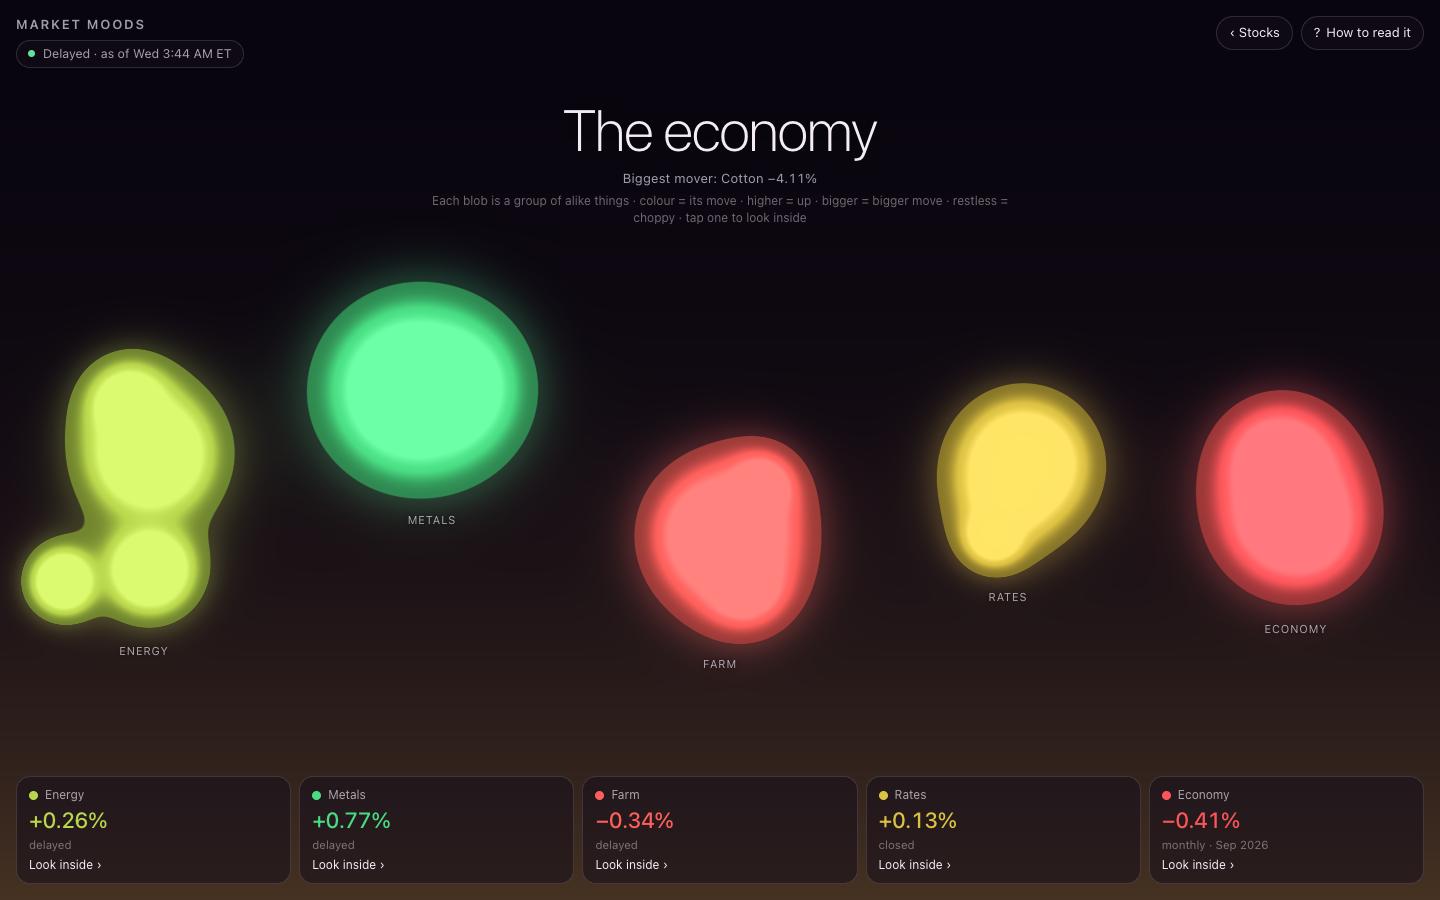
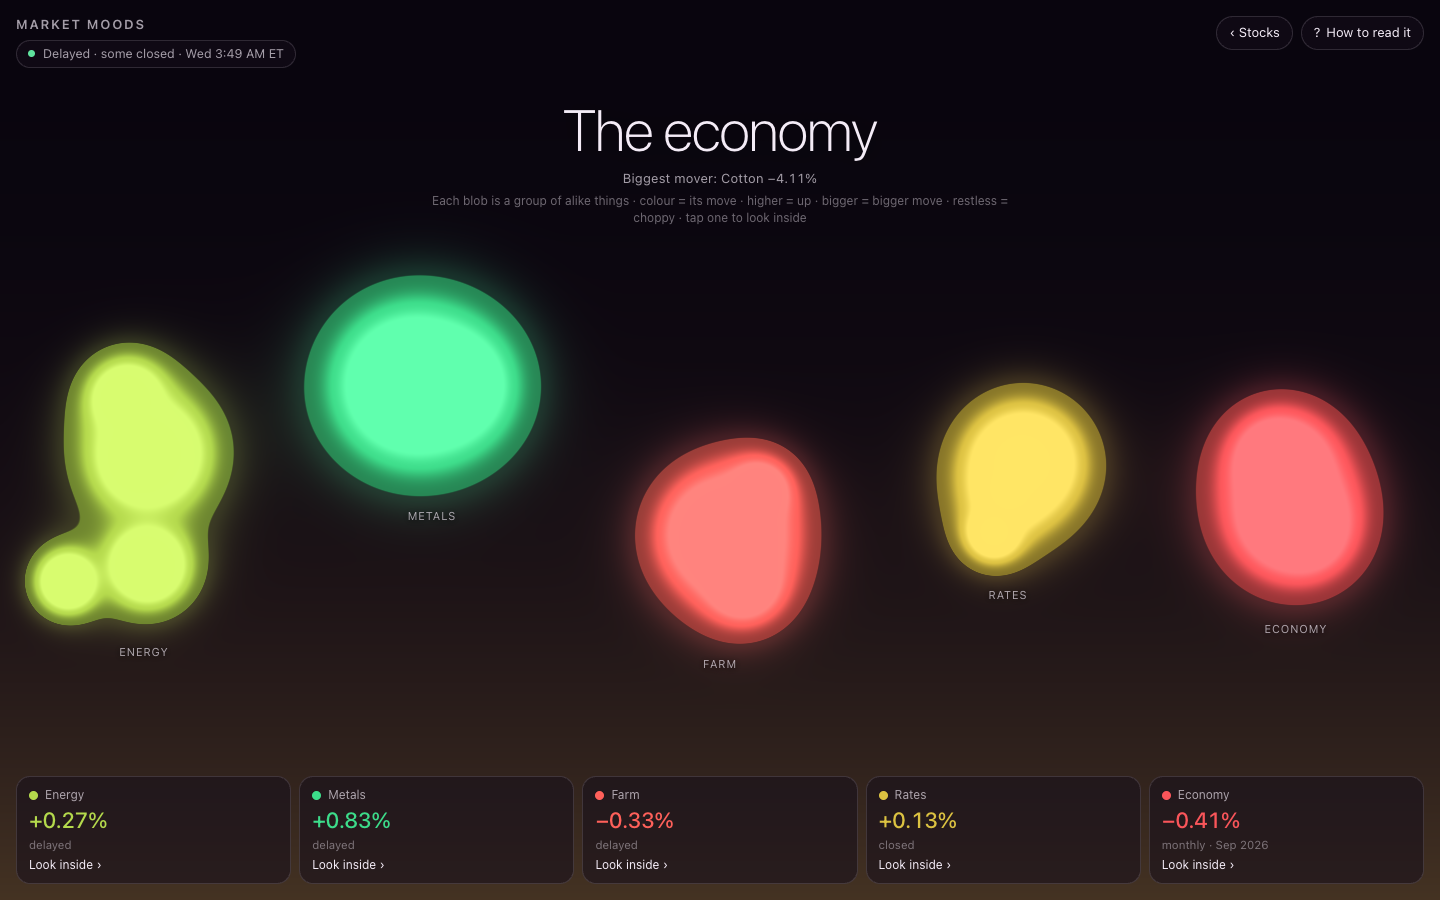
Critic fixes: label small blobs, wrap legend names, no -0 bp, name the member pulling a group, honest pill, phone header
Unemployment's blob was blank (r<24), legend names were cut off, the Economy card read 'Econom',
the Dow phone header pushed the pill onto the title (Economy button hidden in the cell view on
phones), '-0 bp' now reads '0 bp' (check.js), a red group over mostly green members names the
member pulling it (economy-check recounts it; mutant RED), the pill says 'some closed'.

diff --git a/economy.html b/economy.html
@@ -36,7 +36,7 @@
   .tools { display: flex; gap: 8px; }
   .btn { appearance: none; border: 1px solid var(--line); background: var(--glass); color: var(--ink); text-decoration: none;
     height: 34px; min-width: 34px; padding: 0 12px; border-radius: 999px; font: inherit; font-size: 13px; cursor: pointer;
-    backdrop-filter: blur(10px); -webkit-backdrop-filter: blur(10px); display: inline-flex; align-items: center; justify-content: center; gap: 6px; }
+    backdrop-filter: blur(10px); -webkit-backdrop-filter: blur(10px); display: inline-flex; align-items: center; justify-content: center; gap: 6px; white-space: nowrap; }
   .btn:hover { border-color: rgba(244, 236, 247, .32); }
   .btn:focus-visible { outline: 2px solid var(--ink); outline-offset: 2px; }
   .btn[hidden] { display: none; }
@@ -71,7 +71,7 @@
   body.incell .members { display: grid; }
   .members li { display: grid; grid-template-columns: 9px 1fr auto; gap: 0 7px; align-items: baseline; font-size: 12.5px; color: var(--ink-2); min-width: 0; }
   .members .chip { width: 9px; height: 9px; border-radius: 50%; align-self: center; }
-  .members .nm { white-space: nowrap; overflow: hidden; text-overflow: ellipsis; }
+  .members .nm { line-height: 1.2; overflow-wrap: anywhere; }
   .members .mv { font-weight: 600; }
   .members .as { grid-column: 2 / 4; font-size: 11px; color: var(--ink-3); margin-top: -1px; }
   dialog { border: 1px solid var(--line); border-radius: 18px; background: rgba(18, 11, 24, .94); color: var(--ink);
@@ -85,9 +85,9 @@
   dialog .close { margin-top: 16px; width: 100%; }
   @media (max-width: 640px) {
     .readouts { gap: 5px; }
-    .card { padding: 8px 6px 9px; border-radius: 12px; }
+    .card { padding: 8px 5px 9px; border-radius: 12px; }
     .card .pct { font-size: 14px; }
-    .card .name { font-size: 10.5px; gap: 4px; }
+    .card .name { font-size: 10px; gap: 3px; }
     .card .chip { width: 7px; height: 7px; }
     .card .lvl { font-size: 9.5px; }
     .card .look { display: none; }
@@ -429,6 +429,11 @@
       drawn.push([N.dx, N.dy, N.r]);
     }
     ctx.fillStyle = "rgba(20,11,24,.9)"; ctx.textAlign = "center"; ctx.textBaseline = "middle";
+    for (const N of list) if (N.r >= 12 && N.r < 24) {   // too small for name + move: the name alone, so no blob is left blank
+      ctx.font = `600 9px ui-sans-serif, -apple-system, sans-serif`;
+      let t = N.m.short || N.m.name; while (t.length > 3 && ctx.measureText(t).width > N.r * 1.9) t = t.slice(0, -1);
+      ctx.fillText(t, N.dx, N.dy);
+    }
     for (const N of list) if (N.r >= 24) {
       const nm = N.m.short || N.m.name;
       const fs = Math.max(9, Math.min(14, Math.round(N.r * 0.34))), asof = Mood.econAsOf(N.m, now);
@@ -448,7 +453,12 @@
     const g = grp(); if (!inCell || !g) return;
     const now = Date.now();
     $("cellWord").textContent = "Inside " + g.name.toLowerCase();
-    $("cellSub").textContent = `${g.name} ${fmtPct(g.pct)} · ${g.members.filter(m => m.mv.pct > 0).length} of ${g.members.length} rising · ${groupWhenLabel(g, now)}`;
+    const up = g.members.filter(m => m.mv.pct > 0).length, n = g.members.length;
+    // when the group's sign disagrees with most of its members, one big mover is doing it: name it, so a red ring
+    // over mostly-green blobs reads as "Cotton pulled it down", not as a broken page
+    const against = (g.pct < 0 && up > n / 2) || (g.pct > 0 && up < n / 2);
+    const drv = against ? g.members.slice().sort((a, b) => (g.pct < 0 ? a.mv.pct - b.mv.pct : b.mv.pct - a.mv.pct))[0] : null;
+    $("cellSub").textContent = `${g.name} ${fmtPct(g.pct)} · ${up} of ${n} rising` + (drv ? ` · ${drv.short || drv.name} ${drv.mv.text} pulls it ${g.pct < 0 ? "down" : "up"}` : "") + ` · ${groupWhenLabel(g, now)}`;
     const ul = $("members"), sig = g.key + "|" + g.members.map(m => m.key + m.mv.text + Mood.econAsOf(m, now).label).join("|");
     if (ul.dataset.sig !== sig) { ul.dataset.sig = sig; ul.textContent = "";
     for (const m of g.members) {
@@ -500,7 +510,7 @@
     const st = fast.map(m => Mood.econAsOf(m, now)), newest = fast.reduce((a, m) => Math.max(a, m.last_time), 0);
     const clock = new Date(newest * 1000).toLocaleString("en-US", { timeZone: "America/New_York", weekday: "short", hour: "numeric", minute: "2-digit" }) + " ET";
     if (!fast.length) setStatus("replay", "Slow numbers only · see each date");
-    else if (st.some(s => s.live)) setStatus("live", `Delayed · as of ${clock}`);
+    else if (st.some(s => s.live)) setStatus("live", st.every(s => s.live) ? `Delayed · as of ${clock}` : `Delayed · some closed · ${clock}`);
     else setStatus("replay", `Closed · prices as of ${clock}`);
     document.body.dataset.pill = $("statusText").textContent;
     cellUi();

diff --git a/check.js b/check.js
@@ -196,6 +196,7 @@ const FRESH = process.argv.includes("--fresh");   // economy.yml only: also fail
 near(M.econMove("pct", 100, 98.5).pct, -1.5, "econ pct: percent change of the level");
 near(M.econMove("bp", 5.00, 5.06).raw, 6, "econ bp: a rate's change in basis points");
 near(M.econMove("bp", 5.00, 5.10).pct, 1, "econ bp: 10 bp counts as 1%");
+ok(M.econMove("bp", 5.068, 5.063).text === "0 bp", "econ bp: a move that rounds to 0 reads 0 bp, never -0 bp");
 near(M.econMove("pt", 4.1, 4.2).pct, 1, "econ pt: 0.1 point counts as 1%");
 near(M.econMove("jobs", 100000, 100150).pct, 1, "econ jobs: 150k jobs counts as 1%");
 ok(M.econMove("pct", 0, 5) === null && M.econMove("bp", NaN, 5) === null && M.econMove("nope", 1, 2) === null, "econ: no move rather than a made-up one");

diff --git a/mood.js b/mood.js
@@ -163,7 +163,7 @@
   // Colour follows the DIRECTION of the number, not whether it is good news (rising unemployment is
   // green-up here, like rising oil); the page's help says so.
   const MINUS = "\u2212";
-  const signed = (v, digits, unit) => (v > 0 ? "+" : v < 0 ? MINUS : "") + Math.abs(v).toFixed(digits) + unit;
+  const signed = (v, digits, unit) => { const r = +v.toFixed(digits); return (r > 0 ? "+" : r < 0 ? MINUS : "") + Math.abs(r).toFixed(digits) + unit; };   // -0.3 bp rounds to "0 bp", never "-0 bp"
   function econMove(kind, prev, last) {
     if (!(isFinite(prev) && isFinite(last))) return null;
     if (kind === "pct") { if (!(prev > 0)) return null; const d = (last / prev - 1) * 100; return { raw: d, pct: d, text: signed(d, 2, "%") }; }

diff --git a/index.html b/index.html
@@ -144,7 +144,9 @@
   dialog .src { margin: 14px 0 0; font-size: 12px; color: var(--ink-3); }
   dialog .close { margin-top: 16px; width: 100%; }
 
+  #econBtn { white-space: nowrap; }
   @media (max-width: 640px) {
+    body.incell #econBtn { display: none; }   /* four buttons squeezed the status pill onto the title */
     .readouts { gap: 6px; }
     .idx { padding: 8px 8px 9px; border-radius: 12px; }
     .idx .pct { font-size: 16px; }

diff --git a/fetch.py b/fetch.py
@@ -348,7 +348,7 @@ ECON = [
         ("spending", "Consumer spending (PCE)", "f", "PCE", "pct", "$ billion / year", "monthly")]),
 ]
 # things Clark asked for that no free keyless source carries: listed on the page, never faked
-ECON_SHORT = {"mortgage": "Mortgage", "cpi": "CPI", "unemp": "Unemployment", "payrolls": "Payrolls", "claims": "Claims",
+ECON_SHORT = {"mortgage": "Mortgage", "cpi": "CPI", "unemp": "Unemp.", "payrolls": "Payrolls", "claims": "Claims",
               "sentiment": "Sentiment", "retail": "Retail", "spending": "Spending", "t3m": "3-month", "t5y": "5-year",
               "t10y": "10-year", "t30y": "30-year", "natgas": "Nat. gas", "heatoil": "Heating oil", "steel": "Steel",
               "aluminium": "Aluminium", "brent": "Brent", "wti": "WTI"}     # a blob's label; the full name rides in the tooltip
